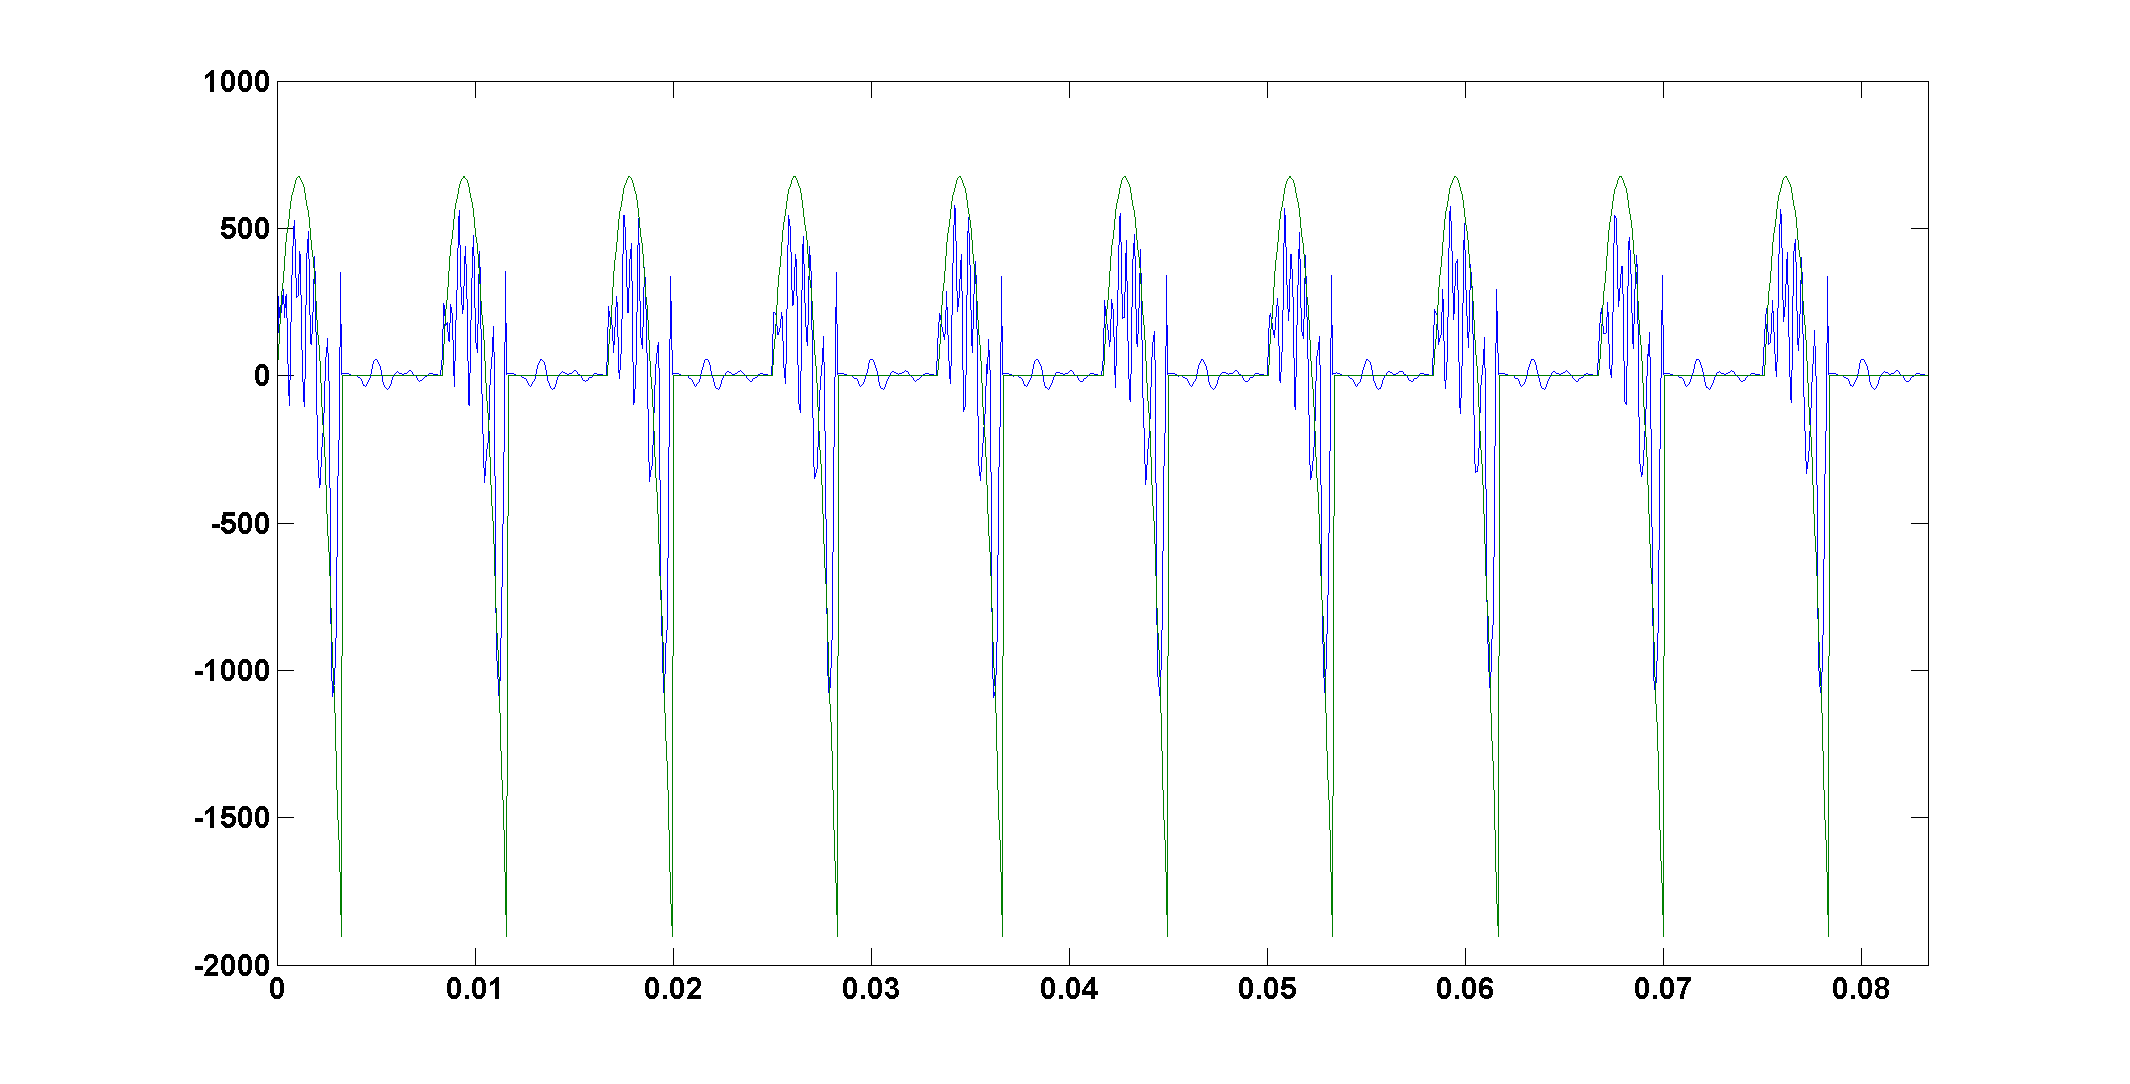
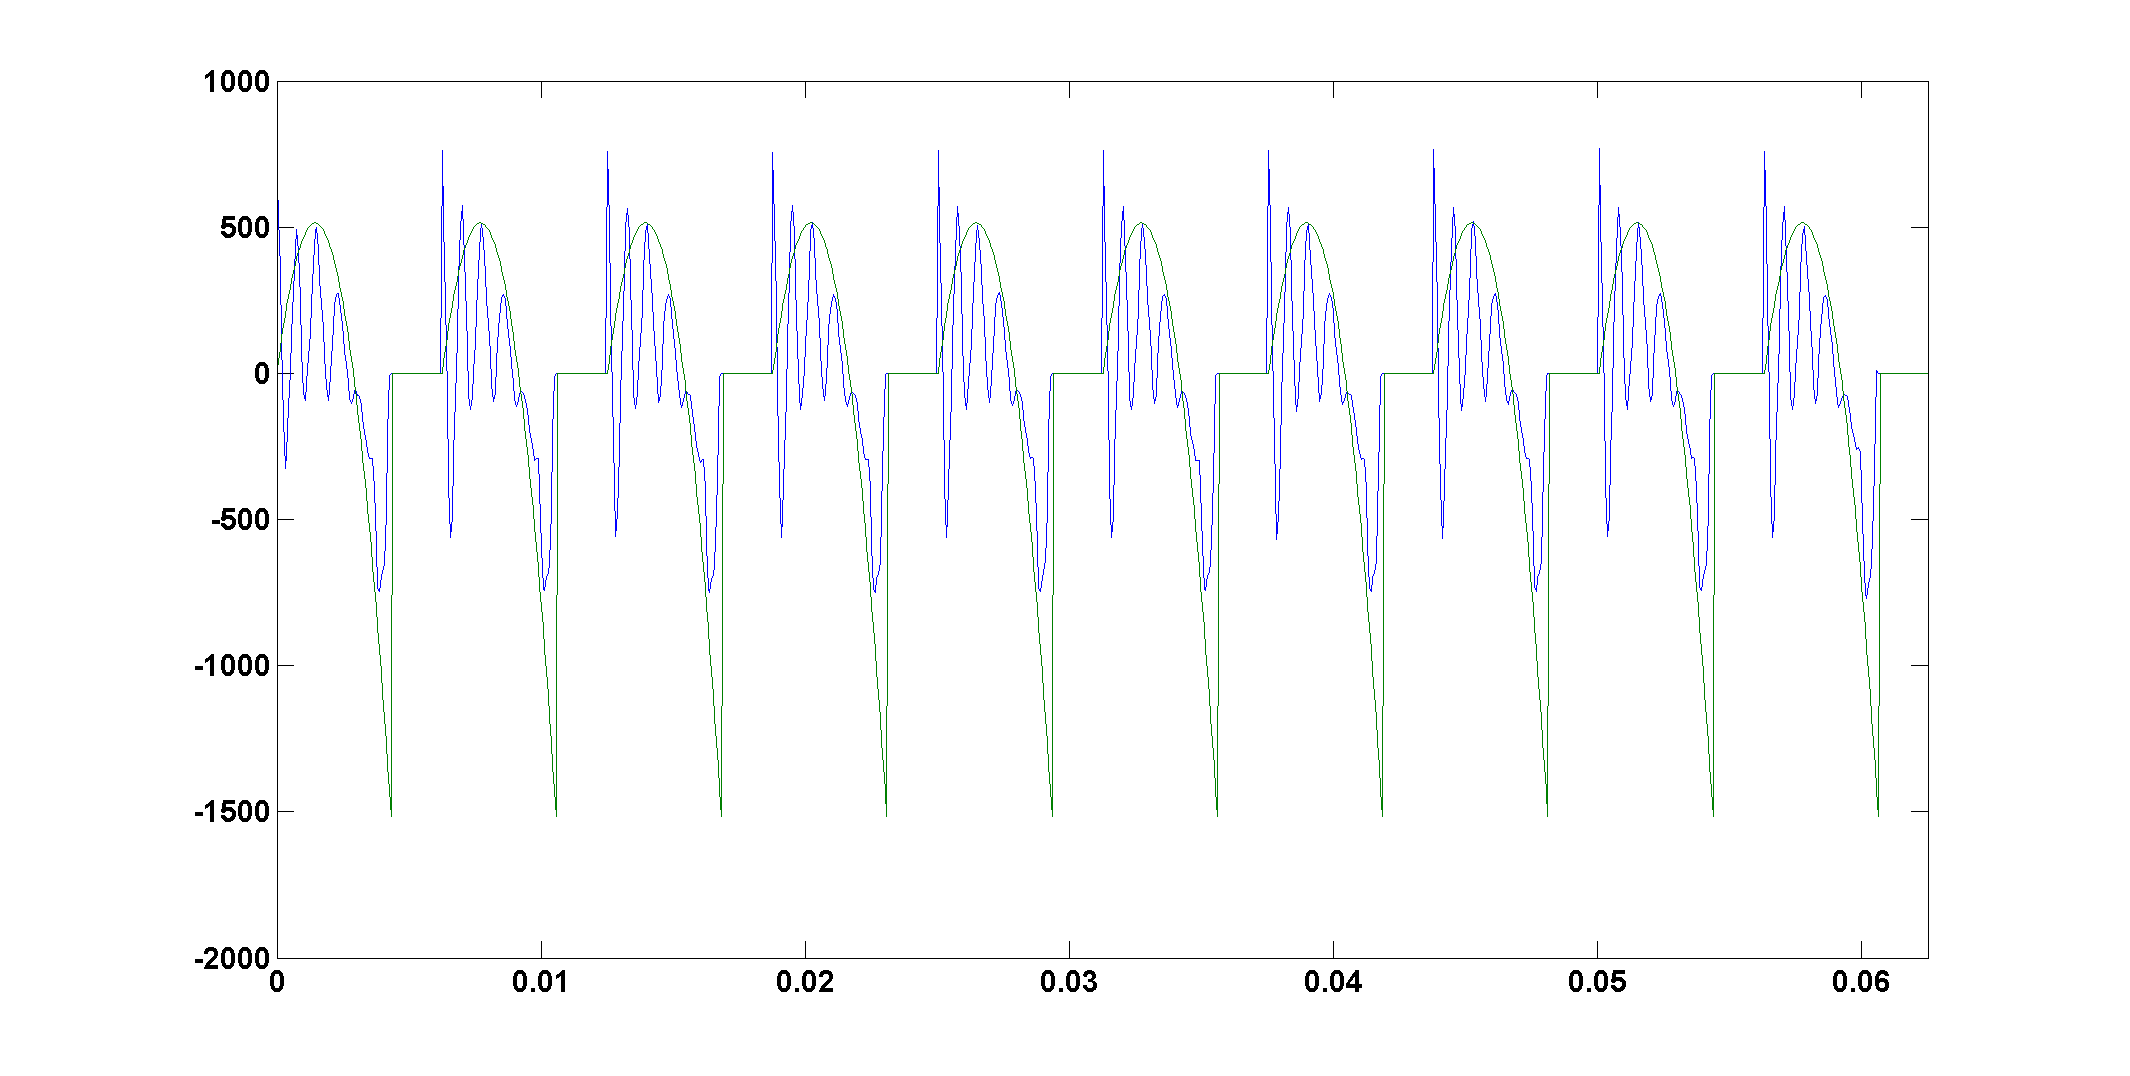
Updated morozov and deleted crappy data

diff --git a/matlab/Tik_run_inversion.m b/matlab/Tik_run_inversion.m
@@ -4,13 +4,13 @@ clear
 % play sound from reconstruction?
 play_sound = 0;
 
-% save sound file from reconstruction?
-save_sound = 0;
+% save sound file from reconstruction (need to play the sound to do this)?
+save_sound = 1;
 
 % save plot to results?
 save_plot = 1;
 
-load data/data m x y yd periods Q Q_rand noise_lvl f data_male_filter
+load data/data m x y yd periods Q Q_rand noise_lvl noise_factor f data_male_filter
 filt = load('data/filter_male_a');
 const = load('data/constants');
 
@@ -21,7 +21,7 @@ male_filter = 1;
 
 x0 = zeros(length(m), 1);
 
-delta = length(m);
+delta = length(m) * noise_lvl * noise_factor;
 alpha = morozov(create_filter_matrix(filt.alpha, length(m))', m, delta, 1);
 % alpha = 20;
 
@@ -39,8 +39,8 @@ fprintf('\nRelative error on vowel           : %g %%\n\n', relerrv)
 
 % plots
 if save_plot
-    filename = 'withcrime-morozov-len(m)[V2]';
-    plot_and_save(filename, x, rec, yd, relerr, relerrv, alpha, Q, Q_rand, noise_lvl, f, data_male_filter);
+    filename = 'test';
+    plot_and_save(filename, x, rec, yd, relerr, relerrv, alpha, Q, Q_rand, noise_lvl, noise_factor, f, data_male_filter);
 else
     figure(1)
     plot(x, rec, x, yd)

diff --git a/matlab/create_simulated_data.m b/matlab/create_simulated_data.m
@@ -12,7 +12,7 @@ show_plot = 0;
 % which filter should be used?
 % 0: female
 % 1: male
-data_male_filter = 1;
+data_male_filter = 0;
 
 % which glottal model?
 % 0: triangle wave
@@ -20,8 +20,8 @@ data_male_filter = 1;
 klatt_model = 1;
 
 % parameters for the data
-f = 120;
-Q = .8;
+f = 160;
+Q = .7;
 Q_rand = 0;
 noise_lvl = .005;
 periods = 10;
@@ -52,7 +52,8 @@ pres = repmat(yyd, rep, 1);
 
 vow = filter(1, filt.alpha, pres);
 
-noise = noise_lvl * max(vow);
+noise_factor =  max(vow);
+noise = noise_lvl * noise_factor;
 noisevow = vow + noise * randn(size(vow));
 
 
@@ -66,7 +67,7 @@ y = repmat(yy, periods, 1);
 yd = repmat(yyd, periods, 1);
 plotvow = vow(start * len : periods * len + start * len - 1);
 
-save data/data m x y yd periods Q Q_rand noise_lvl f data_male_filter
+save data/data m x y yd periods Q Q_rand noise_lvl noise_factor f data_male_filter
 
 
 

diff --git a/matlab/plot_and_save.m b/matlab/plot_and_save.m
@@ -1,4 +1,4 @@
-function plot_and_save(filename, x, rec, yd, relerr, relerrv, alpha, Q, Q_rand, noise_lvl, f, male_filter)
+function plot_and_save(filename, x, rec, yd, relerr, relerrv, alpha, Q, Q_rand, noise_lvl, noise_factor, f, male_filter)
 
 plot(x, rec, x, yd);
 xlim([0, x(end)])
@@ -25,9 +25,10 @@ fprintf(fileID,...
      'Klatt parameter                   = %-1.5f \n',...
      'Random factor of Klatt parameter  = %-1.5f \n',...
      'Level of noise in data            = %-5.5f \n',...
+     'Factor of the noise of the data   = %-5.5f \n',...
      'Frequency of the vowel sound      = %-7.2f \n',...
      'Inverse crime? (0 = no, 1 = yes)  : %-1d'],...
-     relerr, relerrv, alpha, Q, Q_rand, noise_lvl, f, male_filter);
+     relerr, relerrv, alpha, Q, Q_rand, noise_lvl, noise_factor, f, male_filter);
  fclose(fileID);
 
 end
